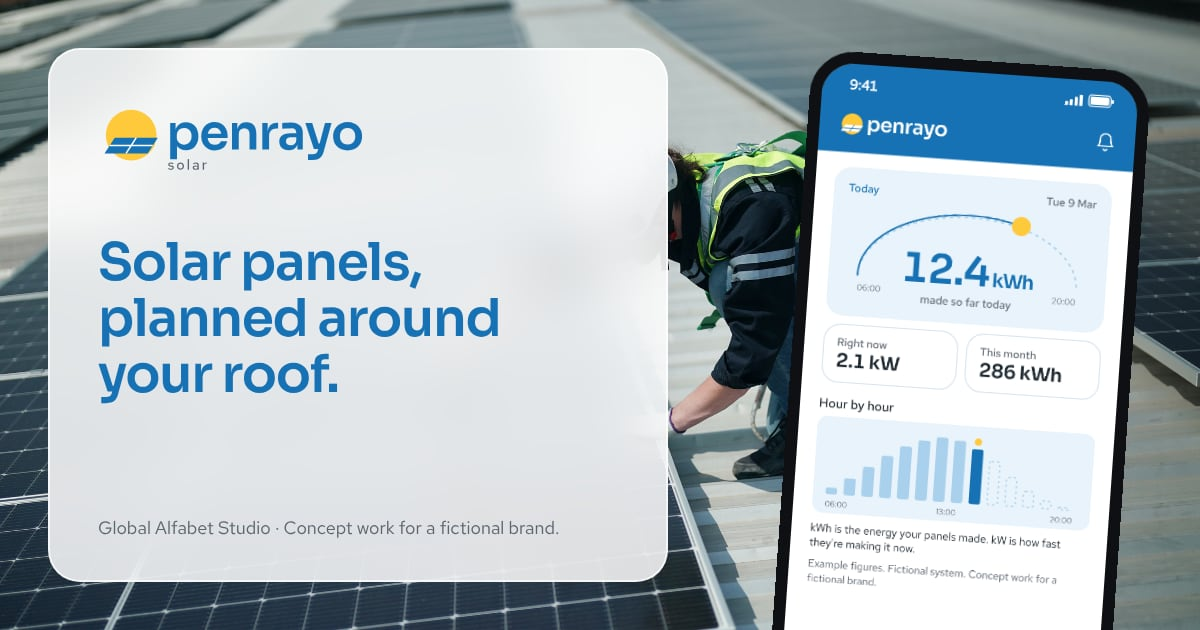
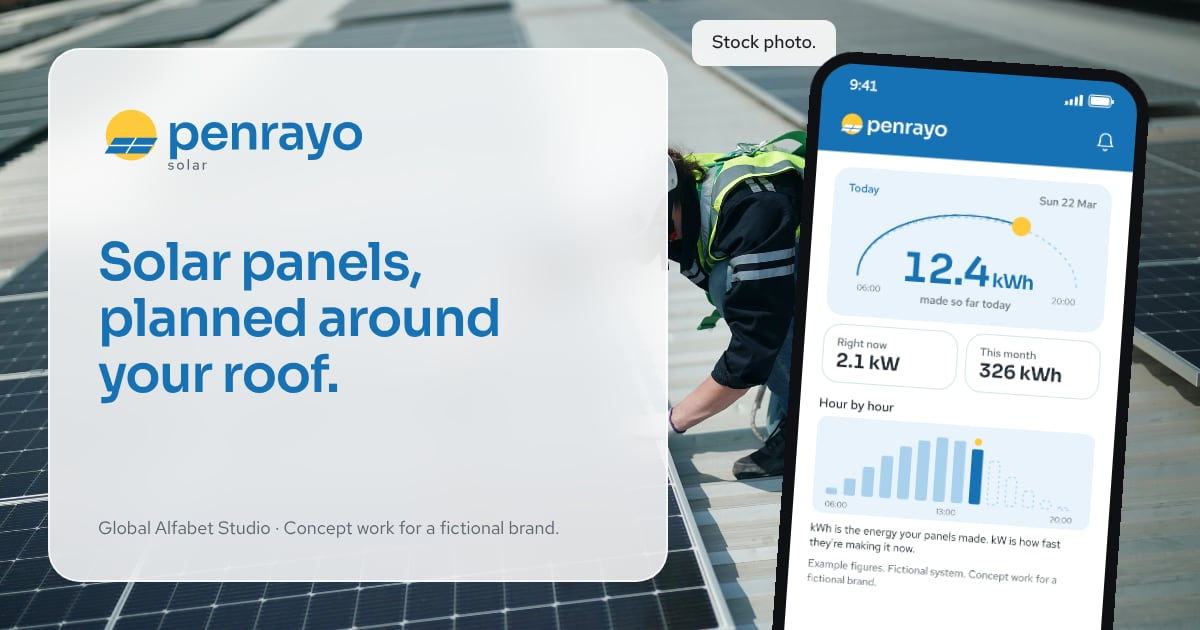
fix(library): Skarvo and Penrayo review fixes
- Penrayo share picture: caption the stock photo.
- Name stock 1095431492 for the Skarvo phone mockup in the item notes.
- Penrayo choices: sun yellow as the sun disk and a few small markers.
- Skarvo van: wordmark and email clear of the wheels and door seams.
- Penrayo example figures agree: today is 22 Mar, 326 kWh this month,
  and the install timeline is complete with the app in use.

Claude-Session: https://claude.ai/code/session_01WkeDygtJFiUZh91TT4fbC5

Changed region(s): [[0.555, 0.0302, 0.7092, 0.1206], [0.8633, 0.3016, 0.8942, 0.3317], [0.8017, 0.573, 0.8325, 0.6032]]

diff --git a/src/content/library.js b/src/content/library.js
@@ -104,8 +104,8 @@ export const library = [
   // Brands 19 and 20 (designed 26 Nov 2026). Kept together at the top of the list, like Ostrak and Arbekk (PR #44).
   // Skarvo: drawn in HTML, CSS and SVG with SIL OFL fonts (Exo 2, Instrument Sans); logo, van and map drawn in code;
   // free Adobe Stock photos licensed under the Standard licence (Adobe backup LOG, 23 Nov 2026): 980807027 (home page
-  // hero, captioned as stock), 1095431492 (business band, captioned), 450469085 (label mockup, cropped above the
-  // numbers on the glass). 301642815 and 425912788 not used; 374737303 dropped by marketing. No AI.
+  // hero, captioned as stock), 1095431492 (business band, captioned; and blurred behind the phone mockup), 450469085
+  // (label mockup, cropped above the numbers on the glass). 301642815 and 425912788 not used; 374737303 dropped by marketing. No AI.
   {
     slug: "skarvo",
     share: "/library/skarvo/share.jpg",
@@ -191,10 +191,10 @@ export const library = [
   },
   // Penrayo Solar: drawn in HTML, CSS and SVG with SIL OFL fonts (Sora, Red Hat Text); logo, roof drawings, report and
   // laptop drawn in code; free Adobe Stock photos licensed under the Standard licence (Adobe backup LOG, 23 Nov 2026):
-  // 562625176 (home page hero and share picture, captioned as stock), 483730131 (photo band, no safety wording near it),
+  // 562625176 (home page hero and share picture, both captioned as stock), 483730131 (photo band, no safety wording near it),
   // 171324126 (phone mockup background, blurred). 496152691 not used; 1747659131 and 614656764 dropped by marketing.
   // Palette changed from the brief: a lighter cell blue instead of a deep panel blue, so it stays apart from Skarvo's
-  // night navy, and sun yellow only in the logo's disk and one marker. No AI.
+  // night navy, and sun yellow only as the sun disk and a few small markers (marketing confirmed, 26 Nov). No AI.
   {
     slug: "penrayo",
     share: "/library/penrayo/share.jpg",
@@ -204,14 +204,14 @@ export const library = [
     kind: "app",
     summary: "A website and customer app for a solar installer, with its logo, drawn roof plans, a daily energy chart and a survey report.",
     choices: [
-      "White and sky first, with one clear cell blue for headings, buttons and charts; sun yellow appears only in the logo's disk and one marker.",
+      "White and sky first, with one clear cell blue for headings, buttons and charts; sun yellow appears only as the sun disk and a few small markers.",
       "The logo is a sun disk rising behind a tilted panel with two white cell lines, beside penrayo in a lowercase geometric sans.",
       "Units are explained in plain words, every figure is labelled as an example, and there are no savings, payback or environmental claims.",
     ],
     mobile: [
-      phone("penrayo", "today", 'Penrayo\'s Today screen: a thin sun arc at 14:00 over "12.4 kWh made so far today", 2.1 kW right now, 286 kWh this month, an hourly chart and a line explaining kWh and kW. Example figures.'),
+      phone("penrayo", "today", 'Penrayo\'s Today screen: a thin sun arc at 14:00 over "12.4 kWh made so far today", 2.1 kW right now, 326 kWh this month, an hourly chart and a line explaining kWh and kW. Example figures.'),
       phone("penrayo", "history", 'Penrayo\'s History screen: Week, Month and Year with Month picked, daily bars for March with the most in a day, 3 Mar, 21.8 kWh, marked in blue, and "Cloudy days make less. That\'s normal."'),
-      phone("penrayo", "install", "Penrayo's Your install screen: a timeline from roof survey (done) to install day (next, Tue 2 Feb, marked with a sun dot), a drawn roof plan with 10 panels on the back roof, and a Message your installer button."),
+      phone("penrayo", "install", "Penrayo's Your install screen: a timeline with the roof survey, panel layout, install day and switch-on done and the app marked now with a sun dot, a drawn roof plan with 10 panels on the back roof, and a Message your installer button."),
       phone("penrayo", "survey", 'Penrayo\'s Book a roof survey form: "Tell us about your roof.", chips for roof type, which way it faces and shade, a street field, three example visit dates and a blue button.'),
     ],
     desktop: [
